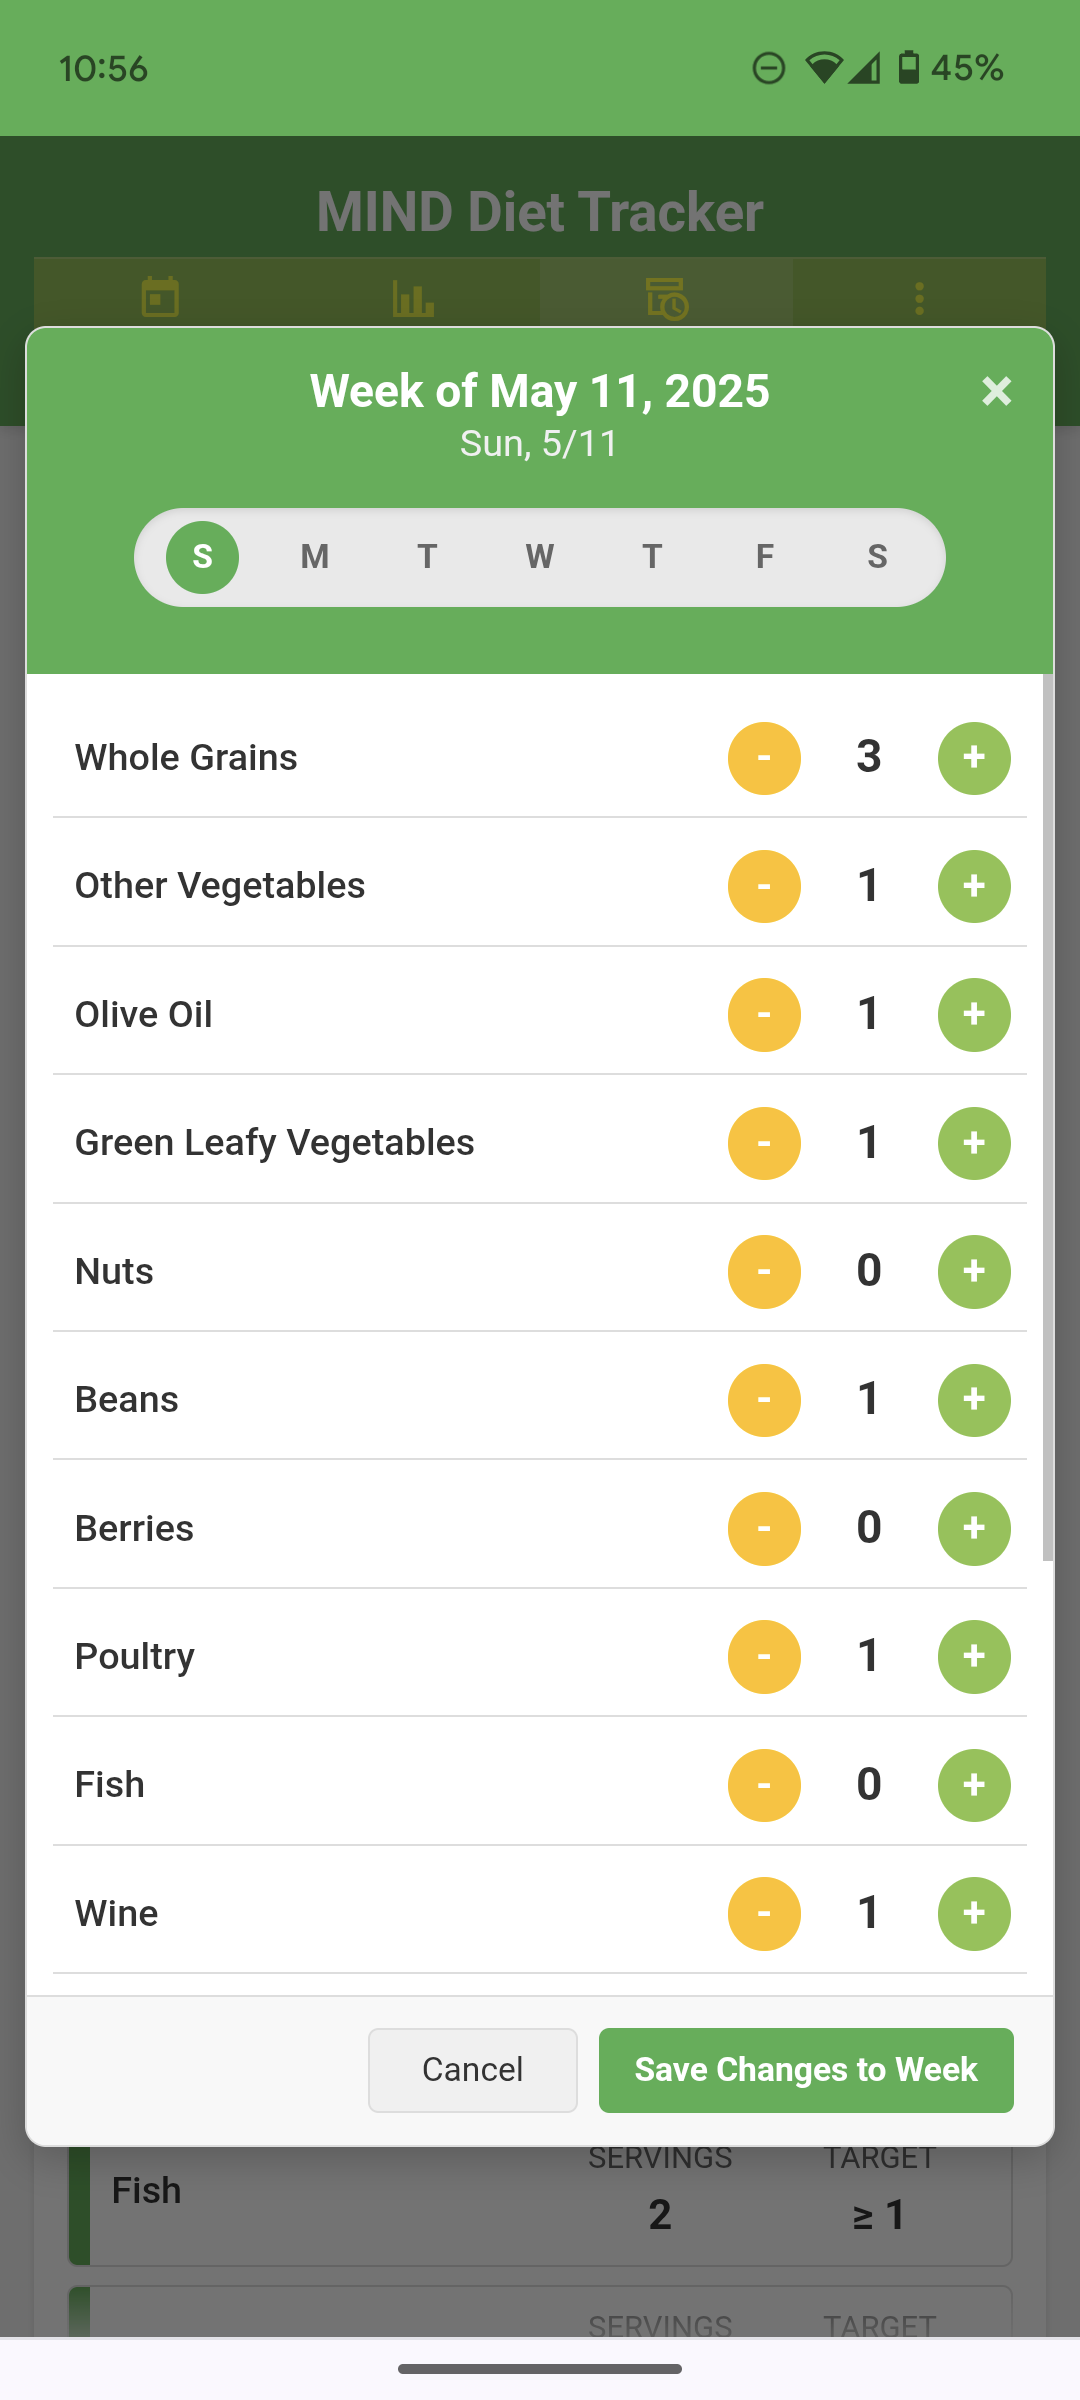
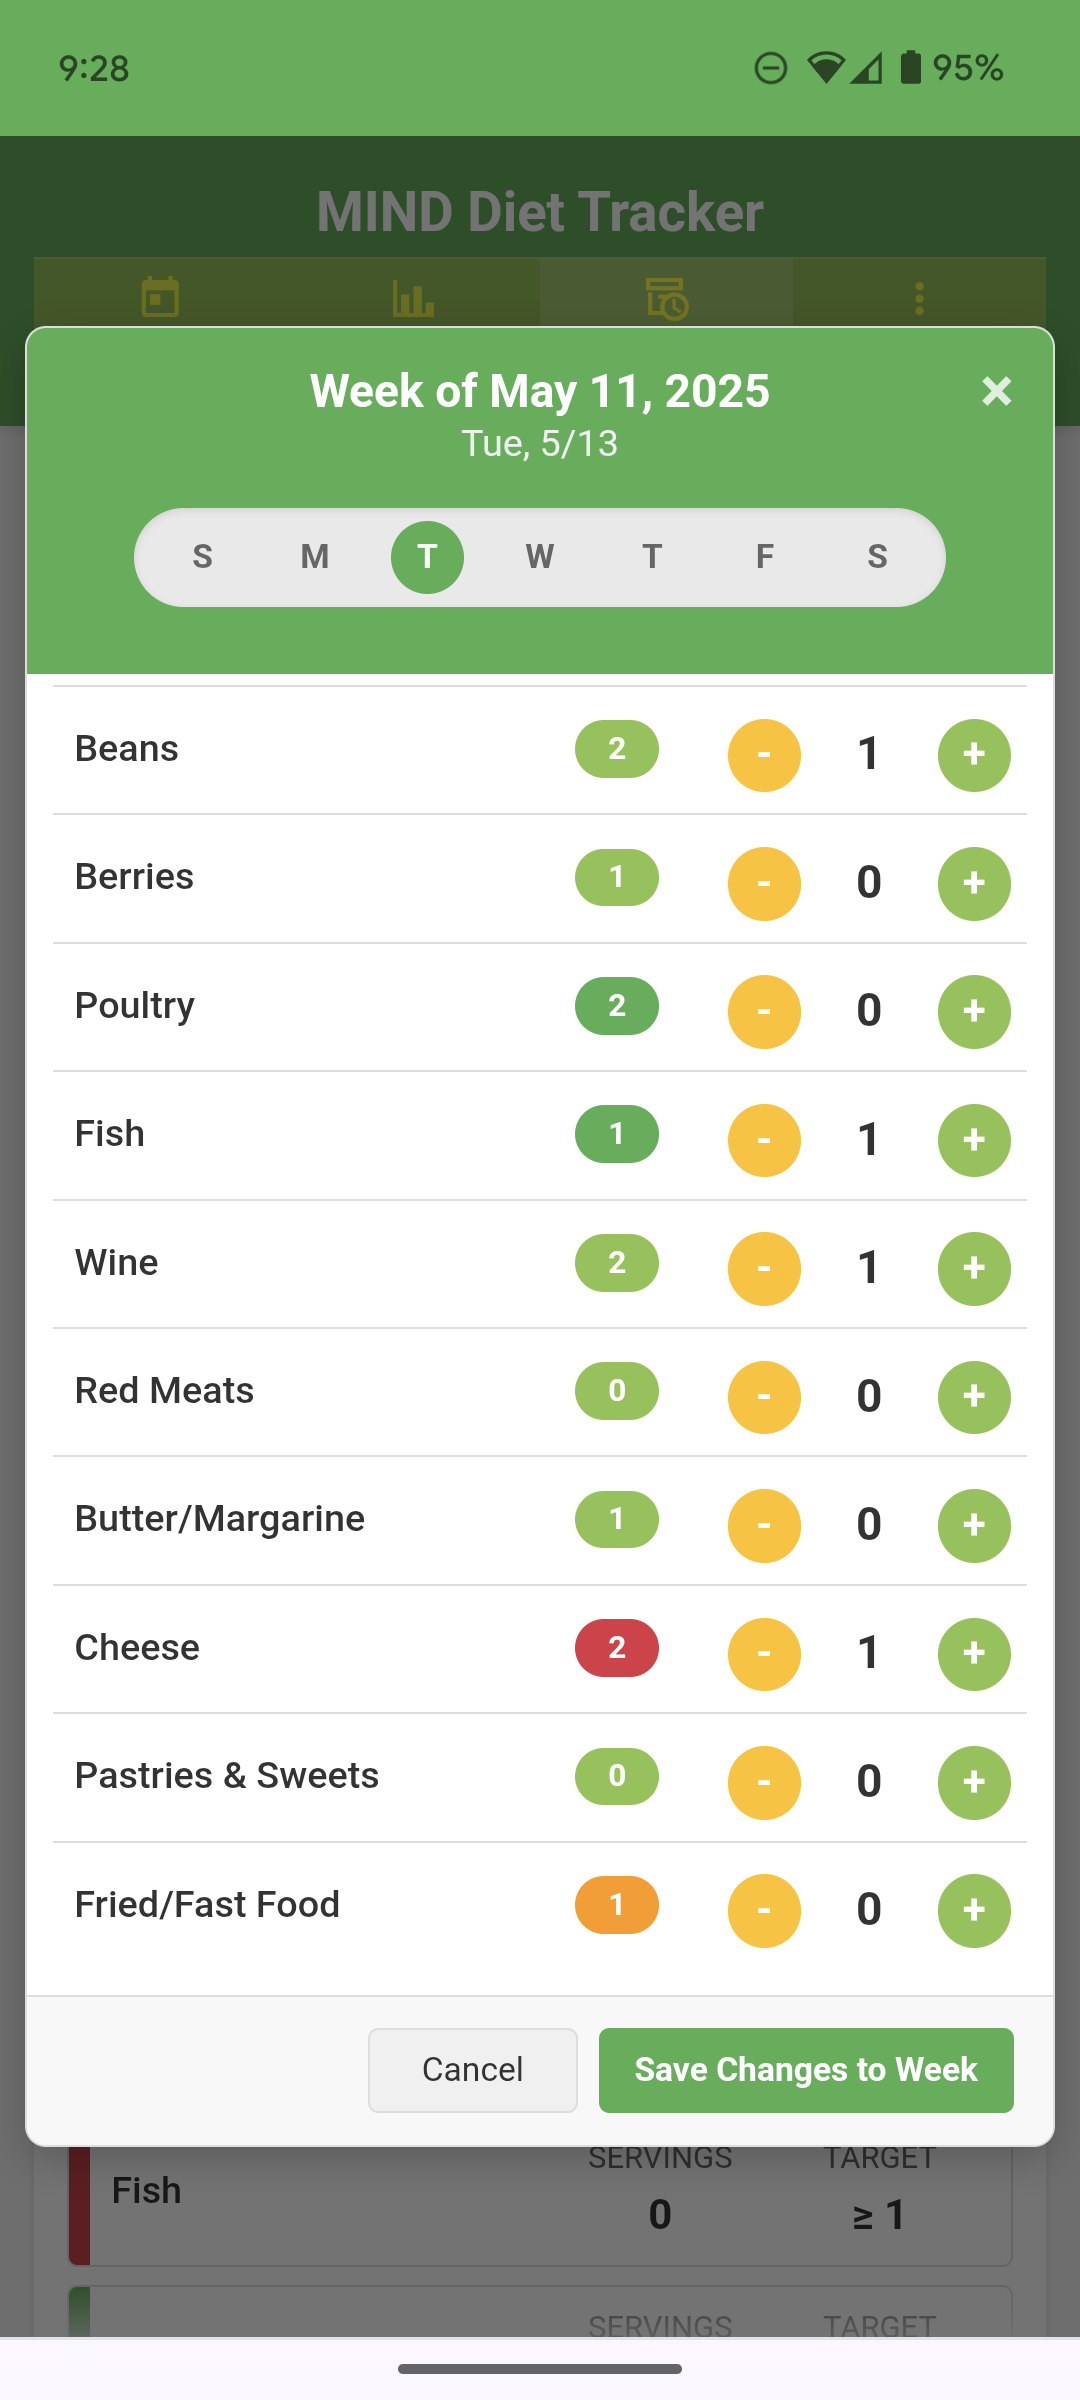
Add weekly summary badges to Edit Totals dialog

diff --git a/app.js b/app.js
@@ -3025,6 +3025,18 @@ function openEditHistoryDailyDetailsModal() {
     }
   }
 
+  // Calculate initial weekly totals from dailyBreakdown
+  const initialWeeklyTotals = {};
+  Object.values(tempEditedDailyBreakdown).forEach((dayData) => {
+    Object.entries(dayData).forEach(([groupId, count]) => {
+      initialWeeklyTotals[groupId] =
+        (initialWeeklyTotals[groupId] || 0) + count;
+    });
+  });
+
+  // Update the history record's totals
+  editingHistoryWeekDataRef.totals = initialWeeklyTotals;
+
   selectedDayInHistoryModal = daysOfThisHistoricalWeek[0]; // Default to first day
 
   const mainModalTitle = `Week of ${weekStartDateObj.toLocaleDateString(
@@ -3064,11 +3076,9 @@ function openEditHistoryDailyDetailsModal() {
 
   uiRenderer.renderModalDayDetailsList(
     historyModalFoodGroups,
-    tempEditedDailyBreakdown[selectedDayInHistoryModal] || {}
+    tempEditedDailyBreakdown[selectedDayInHistoryModal] || {},
+    tempEditedDailyBreakdown
   );
-
-  // Optional: Set focus, e.g., to the first day selector button or close button
-  // document.querySelector('#modal-day-selector-bar .day-selector-btn.active')?.focus();
 }
 
 /**
@@ -3091,10 +3101,20 @@ function handleModalDayNavigation(newSelectedDayStr) {
   // Update the "Mon, 3/8" display in the modal header
   uiRenderer.updateModalSelectedDayDisplay(selectedDayInHistoryModal);
 
+  // Ensure weekly totals are up to date before re-rendering
+  const weeklyTotals = {};
+  Object.values(tempEditedDailyBreakdown).forEach((dayData) => {
+    Object.entries(dayData).forEach(([groupId, count]) => {
+      weeklyTotals[groupId] = (weeklyTotals[groupId] || 0) + count;
+    });
+  });
+  editingHistoryWeekDataRef.totals = weeklyTotals;
+
   // Re-render the food item list for the newly selected day
   uiRenderer.renderModalDayDetailsList(
-    historyModalFoodGroups, // Use the stored foodGroups for the modal
-    tempEditedDailyBreakdown[selectedDayInHistoryModal] || {}
+    historyModalFoodGroups,
+    tempEditedDailyBreakdown[selectedDayInHistoryModal] || {},
+    tempEditedDailyBreakdown
   );
 
   // The uiRenderer.renderDaySelectorBar already visually updates the active button
@@ -3126,11 +3146,10 @@ function handleModalDailyDetailChange(event) {
     !tempEditedDailyBreakdown ||
     !editingHistoryWeekDataRef
   ) {
-    // logger.warn("handleModalDailyDetailChange: Missing context (button, selectedDay, or tempBreakdown).");
     return;
   }
 
-  const itemElement = button.closest(".edit-totals-item"); // Assuming same item structure
+  const itemElement = button.closest(".edit-totals-item");
   const groupId = itemElement?.dataset.id;
 
   if (!groupId) {
@@ -3140,7 +3159,7 @@ function handleModalDailyDetailChange(event) {
 
   // Ensure the day's entry and food group entry exist in our temporary breakdown
   if (!tempEditedDailyBreakdown[selectedDayInHistoryModal]) {
-    tempEditedDailyBreakdown[selectedDayInHistoryModal] = {}; // Should have been initialized by openEditHistoryDailyDetailsModal
+    tempEditedDailyBreakdown[selectedDayInHistoryModal] = {};
   }
 
   let currentValue =
@@ -3156,23 +3175,14 @@ function handleModalDailyDetailChange(event) {
   }
 
   tempEditedDailyBreakdown[selectedDayInHistoryModal][groupId] = currentValue;
-  appUtils.triggerHapticFeedback(20); // Softer haptic for modal edits
-  logger.debug(
-    `History Modal Change: Day ${selectedDayInHistoryModal}, Group ${groupId}, New Count ${currentValue}`
-  );
+  appUtils.triggerHapticFeedback(20);
 
-  // Re-render just the count span for that item to be efficient, or the whole list if simpler.
-  // For simplicity, re-rendering the list for now.
-  const currentTotalSpan = itemElement.querySelector(".edit-current-total");
-  if (currentTotalSpan) {
-    currentTotalSpan.textContent = currentValue;
-  } else {
-    // Fallback to re-rendering the whole list if specific span not found
-    uiRenderer.renderModalDayDetailsList(
-      historyModalFoodGroups,
-      tempEditedDailyBreakdown[selectedDayInHistoryModal] || {}
-    );
-  }
+  // Re-render the entire list to update all weekly badges
+  uiRenderer.renderModalDayDetailsList(
+    historyModalFoodGroups,
+    tempEditedDailyBreakdown[selectedDayInHistoryModal] || {},
+    tempEditedDailyBreakdown
+  );
 }
 
 /**

diff --git a/uiRenderer.js b/uiRenderer.js
@@ -1257,10 +1257,12 @@ function updateModalSelectedDayDisplay(dateStr) {
  * Assumes +/- button event listeners will be handled by app.js delegation on #edit-totals-list.
  * @param {Array} foodGroups - The global food groups array.
  * @param {Object} dailyCountsForSelectedDayInModal - Object like { foodGroupId: count } for the selected day.
+ * @param {Object} tempEditedDailyBreakdown - The complete daily breakdown being edited
  */
 function renderModalDayDetailsList(
   foodGroups,
-  dailyCountsForSelectedDayInModal
+  dailyCountsForSelectedDayInModal,
+  tempEditedDailyBreakdown
 ) {
   const listElement = domElements.modalElements.editTotalsList;
   const itemTemplate = domElements.modalElements.editTotalsItemTemplate;
@@ -1288,7 +1290,21 @@ function renderModalDayDetailsList(
 
   listElement.innerHTML = ""; // Clear previous items
 
-  const counts = dailyCountsForSelectedDayInModal || {}; // Ensure counts is an object
+  const counts = dailyCountsForSelectedDayInModal || {};
+
+  // Calculate weekly totals from tempEditedDailyBreakdown
+  const weeklyTotals = {};
+  logger.debug("Calculating weekly totals from tempEditedDailyBreakdown:", tempEditedDailyBreakdown);
+  
+  if (tempEditedDailyBreakdown) {
+    Object.values(tempEditedDailyBreakdown).forEach((dayData) => {
+      Object.entries(dayData).forEach(([groupId, count]) => {
+        weeklyTotals[groupId] = (weeklyTotals[groupId] || 0) + count;
+      });
+    });
+  }
+  
+  logger.debug("Calculated weekly totals:", weeklyTotals);
 
   foodGroups.forEach((group) => {
     const itemFragment = itemTemplate.content.cloneNode(true);
@@ -1303,15 +1319,62 @@ function renderModalDayDetailsList(
 
     item.dataset.id = group.id;
 
-    const nameSpan = item.querySelector(".edit-item-name");
+    // Create name container div for name and weekly badge
+    const nameContainer = document.createElement('div');
+    nameContainer.className = 'name-row';
+
+    // Add name span
+    const nameSpan = document.createElement('span');
+    nameSpan.className = 'edit-item-name';
+    nameSpan.textContent = group.name;
+    nameContainer.appendChild(nameSpan);
+
+    // Add weekly badge
+    const weeklyBadge = document.createElement('div');
+    weeklyBadge.className = 'weekly-badge';
+    const weeklyTotal = weeklyTotals[group.id] || 0;
+    weeklyBadge.innerHTML = `<span class="wk-val">${weeklyTotal}</span>`;
+
+    // Calculate effective weekly target
+    let effectiveWeeklyTarget;
+    if (group.frequency === "week") {
+      effectiveWeeklyTarget = group.target;
+    } else if (group.frequency === "day") {
+      effectiveWeeklyTarget = group.target * 7;
+    } else {
+      effectiveWeeklyTarget = group.target;
+    }
+
+    // Update badge color based on progress
+    if (group.type === "positive") {
+      if (weeklyTotal >= effectiveWeeklyTarget) {
+        weeklyBadge.classList.add("badge-primary");
+      }
+    } else {
+      // For limits
+      if (weeklyTotal > effectiveWeeklyTarget) {
+        weeklyBadge.classList.add("badge-danger");
+      } else if (weeklyTotal > effectiveWeeklyTarget * 0.75) {
+        weeklyBadge.classList.add("badge-warning");
+      }
+    }
+
+    nameContainer.appendChild(weeklyBadge);
+
+    // Replace the original name span with our new container
+    const oldNameSpan = item.querySelector(".edit-item-name");
+    if (oldNameSpan) {
+      oldNameSpan.replaceWith(nameContainer);
+    } else {
+      item.insertBefore(nameContainer, item.firstChild);
+    }
+
+    // Set up the count display and controls
     const totalSpan = item.querySelector(".edit-current-total");
     const decBtn = item.querySelector(".edit-decrement-btn");
     const incBtn = item.querySelector(".edit-increment-btn");
 
-    if (nameSpan) nameSpan.textContent = group.name;
     if (totalSpan) totalSpan.textContent = counts[group.id] || 0;
-
-    // Ensure buttons have dataset for groupId for app.js event handlers
     if (decBtn) decBtn.dataset.groupId = group.id;
     if (incBtn) incBtn.dataset.groupId = group.id;
 

diff --git a/style.css b/style.css
@@ -1880,3 +1880,57 @@ h3:first-child {
         /* margin-top: var(--spacing-xs); */
     }
 }
+
+#edit-totals-modal .edit-totals-item {
+    display: flex;
+    justify-content: space-between;
+    align-items: center;
+    padding: 8px 0;
+    margin-bottom: 4px;
+    border-bottom: 1px solid var(--border-color);
+}
+
+#edit-totals-modal .edit-totals-item:last-child {
+    border-bottom: none;
+    margin-bottom: 0;
+}
+
+#edit-totals-modal .name-row {
+    display: flex;
+    align-items: center;
+    flex: 1;
+    margin-right: 12px;
+}
+
+#edit-totals-modal .edit-item-name {
+    flex-grow: 1;
+    margin-right: 8px;
+    font-weight: 500;
+}
+
+#edit-totals-modal .weekly-badge {
+    background-color: var(--secondary-color);
+    color: white;
+    border-radius: 12px;
+    padding: 2px 8px;
+    font-size: 0.75rem;
+    font-weight: bold;
+    display: inline-flex;
+    align-items: center;
+    justify-content: center;
+    min-width: 16px;
+    height: 18px;
+    margin-right: var(--spacing-sm);
+}
+
+#edit-totals-modal .weekly-badge.badge-primary {
+    background-color: var(--primary-color);
+}
+
+#edit-totals-modal .weekly-badge.badge-warning {
+    background-color: var(--limit-color);
+}
+
+#edit-totals-modal .weekly-badge.badge-danger {
+    background-color: var(--error-color);
+}

diff --git a/README.md b/README.md
@@ -1,6 +1,7 @@
 # MIND Diet Tracker PWA
 
 [![License: GPL v3](https://img.shields.io/badge/License-GPLv3-blue.svg)](https://www.gnu.org/licenses/gpl-3.0)
+[![Node.js: >=18.0.0](https://img.shields.io/badge/Node.js-%3E%3D18.0.0-brightgreen.svg)](https://nodejs.org/)
 
 A Progressive Web App (PWA) designed to help users track their daily and weekly adherence to the principles of the MIND Diet.  Record servings of key food groups each day, view weekly summaries, and browse your historical data. All data is stored locally on your device and can be optionally synchronized across multiple devices using cloud storage.
 
